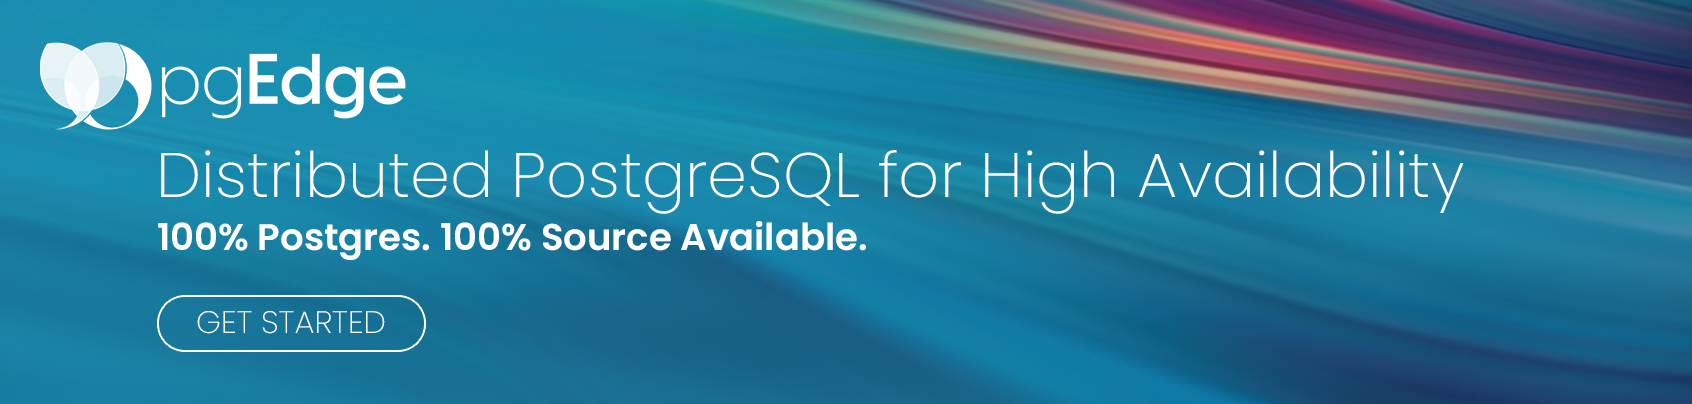
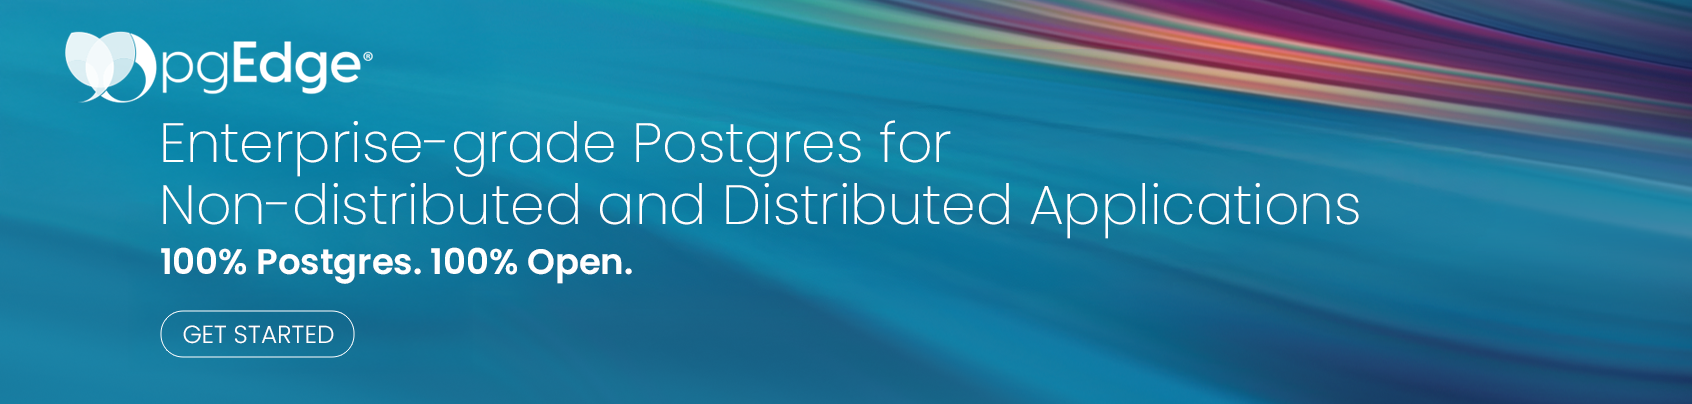
readme updates (#1)

Changed region(s): [[0.0, 0.0594, 0.8605, 0.8911]]

diff --git a/profile/README.md b/profile/README.md
@@ -1,14 +1,21 @@
 [![github_banner](images/org-banner.png)](https://www.pgedge.com/get-started/platform)
 
 <div align="center">
-  <a href="https://www.pgedge.com">Learn more</a> • 
-  <a href="https://docs.pgedge.com">Docs</a> • 
-  <a href="https://discord.com/invite/pgedge/login">Discord</a>
+  <a href="https://www.pgedge.com">Learn more</a> •
+  <a href="https://docs.pgedge.com">Docs</a> •
+  <a href="https://discord.com/invite/pgedge/login">Discord</a> •
+  <a href="https://www.linkedin.com/company/pgedge/">LinkedIn</a> •
+  <a href="https://mastodon.social/@pgEdgeDistributedPostgres">Mastodon</a>
 </div>
 
 ##
 
-pgEdge delivers active-active PostgreSQL solutions for maximum high availability, ultra-low latency, zero downtime maintenance, and fault-tolerant systems across deployment options and cloud regions. Proudly [100% PostgreSQL compatible](https://pgscorecard.com/) and fully source-available, we're here to help you enable distributed Postgres no matter where your clusters are. 
+With pgEdge, get 100% open-source, enterprise-grade Postgres out-of-the-box optimized for both non-distributed and distributed deployments.
+
+pgEdge delivers PostgreSQL solutions for maximum high availability, ultra-low latency, zero downtime maintenance, and data residency across deployment options and cloud regions. Single instances can be scaled up to active-active (multi-master) distributed deployments in a matter of minutes, giving you the freedom and flexibility to shift your data needs for your business instantly.
+
+Proudly 100% open-source (under the OSI-approved [PostgreSQL license](https://www.postgresql.org/about/licence/)) and [100% PostgreSQL compatible](https://pgscorecard.com/), we're here to help you enable scalable, flexible, and fault-tolerant Postgres deployments no matter where your clusters are.
+pgEdge stays up-to-date with the latest PostgreSQL releases with same-day patches, ensuring that all the most recent enhancements, bug fixes, and security updates for each release are available without delay.
 
 ## What's at our core
 
@@ -19,22 +26,30 @@ pgEdge delivers active-active PostgreSQL solutions for maximum high availability
 
 We have a variety of download options available to make it quick and easy to start using pgEdge.
 
-- [Sign up for pgEdge Cloud](https://www.pgedge.com/get-started/cloud) and get the first 30 days free.
-- [Experience self-hosted pgEdge in 30 seconds](https://www.pgedge.com/get-started/containers) when deploying using containers. Free for development or evaluation.
-- [Self-host on VMs](www.pgedge.com/get-started/platform) with a free download license for unlimited development and evaluation, plus limited production usage (up to 4 vCPUs). 
+- Sign up for the Cloud Edition and get the first 30 days free.
+     - [pgEdge Distributed Postgres](https://www.pgedge.com/get-started/cloud)
+     - [pgEdge Enterprise Postgres](https://www.pgedge.com/get-started/enterprise-cloud)
+- Experience self-hosted pgEdge in 30 seconds when deploying using containers. Free for development or evaluation.
+     - [pgEdge Distributed
+ Postgres](https://www.pgedge.com/get-started/containers)
+     - [pgEdge Enterprise Postgres](https://www.pgedge.com/get-started/enterprise-containers)
+- Self-host on VMs with a free download license for unlimited development and evaluation.
+     - [pgEdge Distributed Postgres](https://www.pgedge.com/get-started/platform)
+     - [pgEdge Enterprise Postgres](https://www.pgedge.com/get-started/enterprise-vm)
 
-### Integrations
+### Integrations 
 
-- [Prefer using Ansible to deploy infrastructure and cluster resources?](https://github.com/pgEdge/pgedge-ansible) This collection will build a full pgEdge cluster for you.
-- Install using a [Helm chart](https://github.com/pgEdge/pgedge-helm) to deploy quickly on Kubernetes.
-- Explore [Dockerfile and Docker examples for pgEdge](https://github.com/pgEdge/pgedge-docker).
-- [Connect Cloudflare Workers to your pgEdge database](https://github.com/pgEdge/cloudflare-worker-template) using our template.
-- Working with [Terraform](https://github.com/pgEdge/terraform-provider-pgedge)? Our provider works seamlessly for both the Developer and Enterprise editions.
+- [Prefer using Ansible to deploy infrastructure and cluster resources?](https://github.com/pgEdge/pgedge-ansible) This collection will build a pgEdge Distributed Postgres cluster for you.
+- Leverage [Postgres images built from pgEdge Enterprise packages](https://github.com/pgEdge/postgres-images)
+- Install pgEdge Distributed Postgres using a [Helm chart](https://github.com/pgEdge/pgedge-helm) to deploy quickly on Kubernetes.
+- Explore [Dockerfile and Docker examples for pgEdge Distributed Postgres](https://github.com/pgEdge/pgedge-docker).
+- [Connect Cloudflare Workers to your pgEdge Cloud database](https://github.com/pgEdge/cloudflare-worker-template) using our template.
+- Working with [Terraform](https://github.com/pgEdge/terraform-provider-pgedge)? Our pgEdge Cloud terraform provider works seamlessly for both the Developer and Enterprise editions.
 - Simplify the management of pgEdge Cloud resources using infrastructure as code with the [official Pulumi provider for pgEdge Cloud](https://github.com/pgEdge/pulumi-pgedge).
 
 ## Get started
 
-Self-hosting pgEdge? [Find the installation instructions here.](docs.pgedge.com/platform/installing_pgedge) 
+Self-hosting pgEdge? [Find the installation instructions here.](https://docs.pgedge.com/platform/installing_pgedge)
 
 Or, thinking of deploying in the cloud? [Learn more about pgEdge Cloud deployments here.](https://docs.pgedge.com/cloud)
 
@@ -47,7 +62,7 @@ Or, thinking of deploying in the cloud? [Learn more about pgEdge Cloud deploymen
 
 ## Contact us, anytime
 
-We provide [24/7 customer service](https://www.pgedge.com/support) for customers with thanks to our amazing team of experts, that includes contributors to the PostgreSQL ecosystem. 
+We provide [24/7 customer service](https://www.pgedge.com/support) for customers with thanks to our amazing team of experts, that includes contributors to the PostgreSQL ecosystem.
 
 If you have any specific questions about pgEdge in general, you can always [get in touch](https://www.pgedge.com/contact) and we're happy to help.
 
